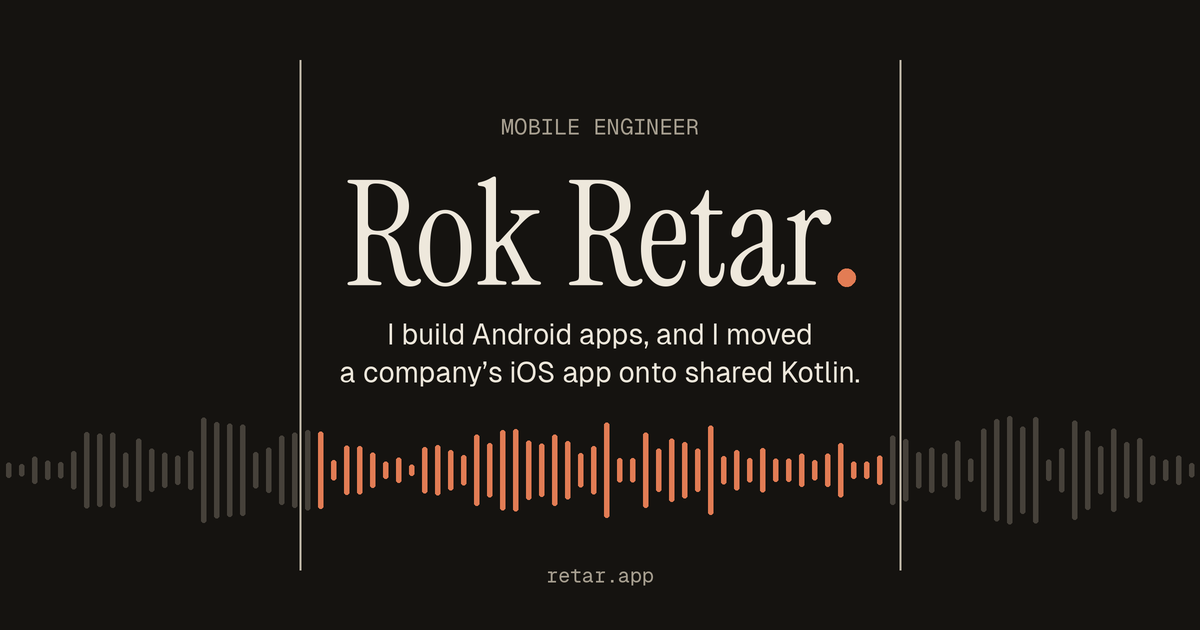
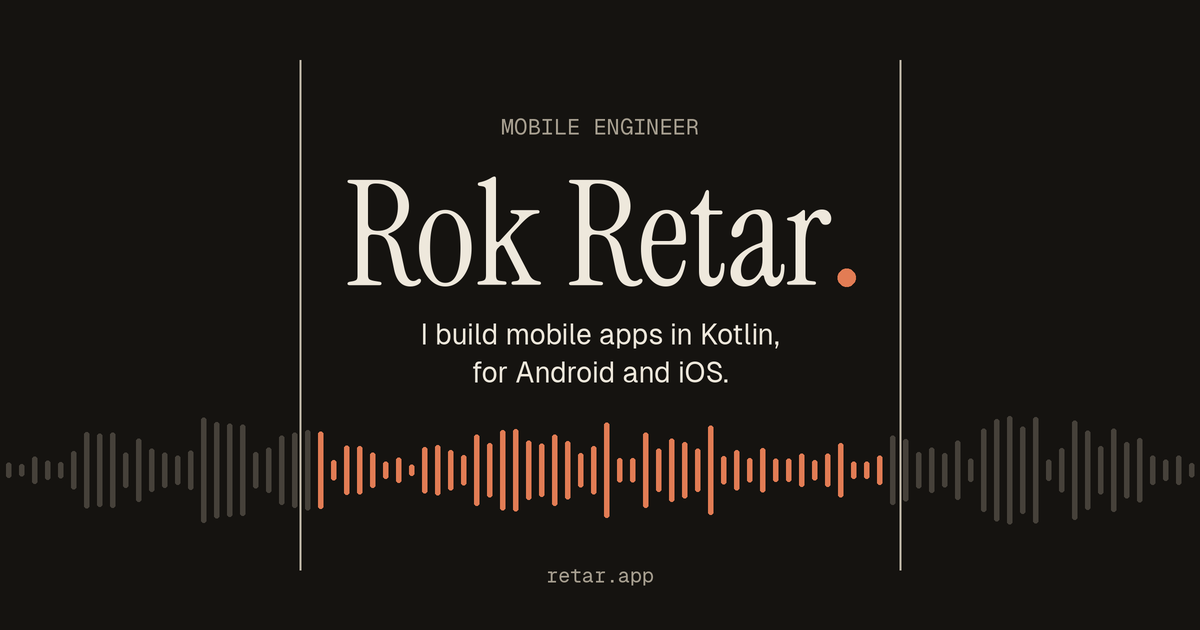
Plainer headline: mobile apps in Kotlin, for Android and iOS
Claude-Session: https://claude.ai/code/session_01D5mG9YGQGhr8PFAYHSD22d

Changed region(s): [[0.2775, 0.5127, 0.7092, 0.6333]]

diff --git a/site/src/jsMain/kotlin/io/github/retar/portfolio/resources/StringRes.kt b/site/src/jsMain/kotlin/io/github/retar/portfolio/resources/StringRes.kt
@@ -27,9 +27,9 @@ sealed class StringRes(val en: String, val sl: String, val lv: String) {
     )
 
     data object HeroHeadline : StringRes(
-        en = "I build Android apps, and I moved a company's iOS app onto shared Kotlin.",
-        sl = "Razvijam aplikacije za Android in sem iOS aplikacijo podjetja preselil na skupni Kotlin.",
-        lv = "Es veidoju Android lietotnes un pārcēlu uzņēmuma iOS lietotni uz kopīgu Kotlin kodu."
+        en = "I build mobile apps in Kotlin, for Android and iOS.",
+        sl = "Razvijam mobilne aplikacije v Kotlinu, za Android in iOS.",
+        lv = "Es veidoju mobilās lietotnes ar Kotlin, Android un iOS."
     )
 
     data object HeroSubtitle : StringRes(

diff --git a/site/src/jsMain/kotlin/io/github/retar/portfolio/pages/Index.kt b/site/src/jsMain/kotlin/io/github/retar/portfolio/pages/Index.kt
@@ -58,7 +58,7 @@ import org.jetbrains.compose.web.dom.Ol
 fun IndexPage() {
     Seo(
         title = "Rok Retar · Android and Kotlin Multiplatform engineer",
-        description = "Rok Retar is a mobile engineer in Slovenia who builds Android apps and moved a company's iOS app onto shared Kotlin. Work, engineering notes and contact.",
+        description = "Rok Retar is a mobile engineer in Slovenia. He builds apps in Kotlin, for Android and iOS. Work, engineering notes and contact.",
         path = "/",
         jsonLd = """
             {
